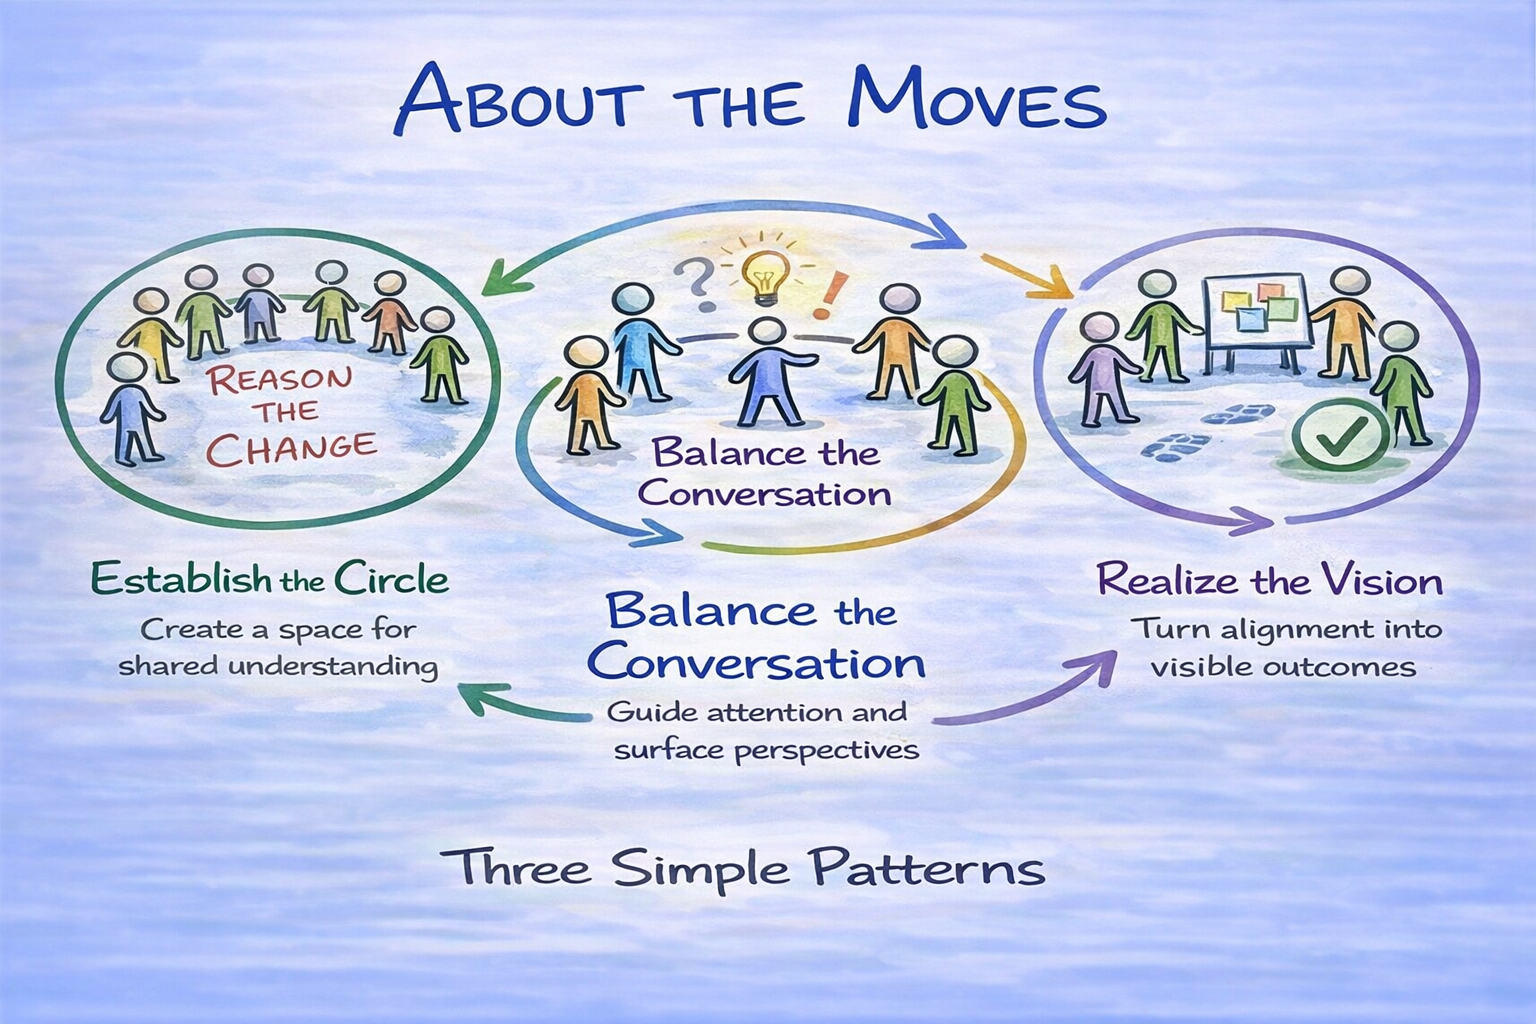
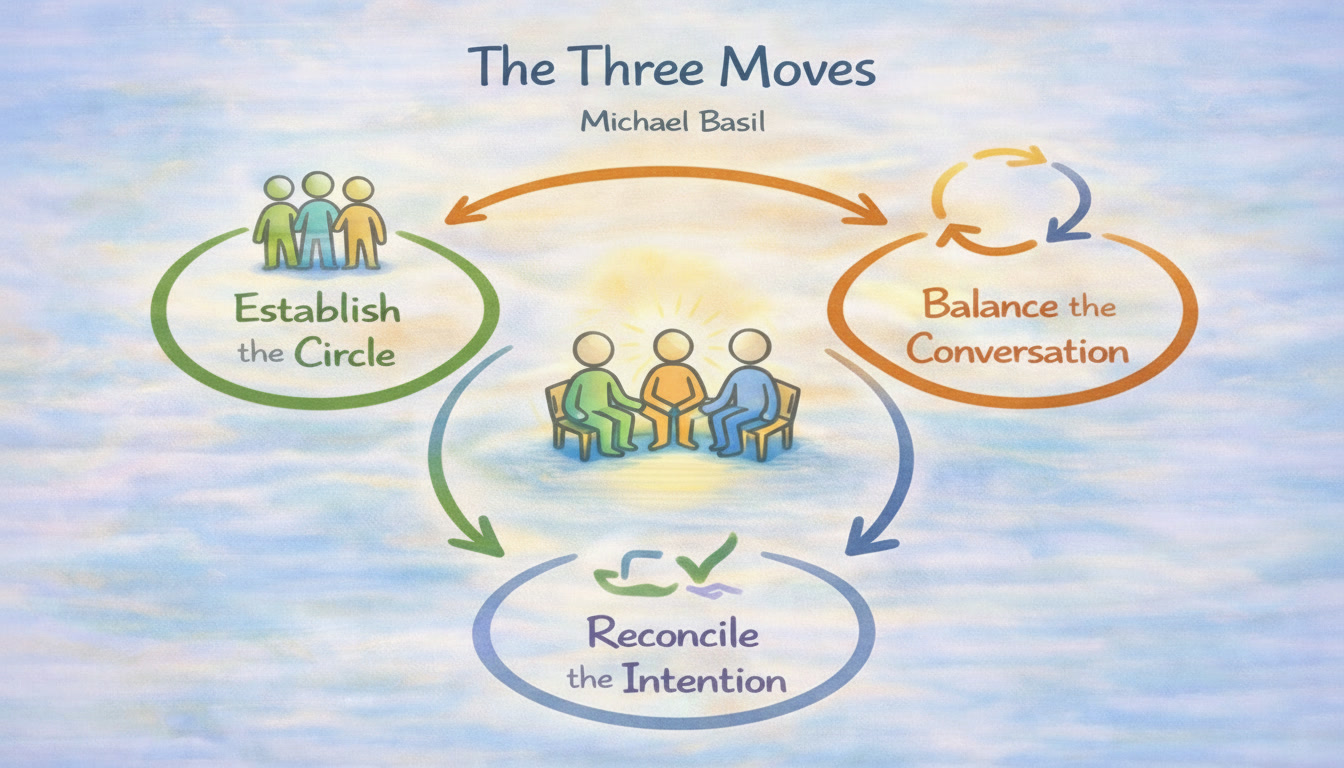
refactor: moves image and overall framing

diff --git a/balance.md b/balance.md
@@ -8,7 +8,7 @@ css_id: balance
 
 # Balance the Conversation
 
-*A Pattern for Conscious Change Leadership by* **Michael Basil**
+*A Pattern for Adaptive Change Leadership by* **Michael Basil**
 
 ![Balance the Conversation](/images/balance.png)
 
@@ -18,7 +18,7 @@ css_id: balance
 
 Guide attention, surface perspectives, and manage tension so insight flows. Without this balance, drivers clash, organizers silo, collaborators disengage, and ideas fail to translate into action. By intentionally observing and shifting energy, a facilitator helps the group integrate perspectives, make decisions, clear outdated priorities, and move toward aligned action.
 
-This pattern is **both independent and foundational**, nourishing the effectiveness of the Circle itself. It enables subsequent moves like *Reconcile the Vision* and creates the conditions to **establish, evolve, or adjourn a Circle**, forming a more collaborative and responsive conversation system.
+This pattern is **both independent and foundational**, nourishing the effectiveness of the Circle itself. It enables subsequent moves like *Reconcile the Intention* and creates the conditions to **establish, evolve, or adjourn a Circle**, forming a more collaborative and responsive conversation system.
 
 ## Story
 
@@ -95,7 +95,7 @@ When conversation balancing works:
 
 Over time, in a change-saturated environment where initiatives are fragmented and attention is scattered, balanced conversations enable critical outcomes to emerge. Strategic initiatives begin to move forward, connect, and deliver tangible results. Progress becomes visible, and alignment strengthens across the organization.
 
-A Circle session, and any conversation, becomes a **space to practice and reinforce this skill**, supporting its establishment, evolution, and adjournment. It also strengthens subsequent moves like Reconcile the Vision.
+A Circle session, and any conversation, becomes a **space to practice and reinforce this skill**, supporting its establishment, evolution, and adjournment. It also strengthens subsequent moves like *Reconcile the Intention*.
 
 ## Key Characteristics
 
@@ -141,7 +141,7 @@ A Circle session, and any conversation, becomes a **space to practice and reinfo
 ## Related Patterns
 
 - [Establish the Circle](/establish/){: data-ga-event="learn_more" data-ga-label="balance_to_establish"} – provides the foundation and conditioning for creating, evolving, or adjourning a Circle. This pattern and Establish the Circle are interdependent—each strengthens the other.  
-- [Reconcile the Vision](/reconcile/){: data-ga-event="learn_more" data-ga-label="moves_to_reconcile"} – relies on balanced conversations to synthesize perspectives and align action.  
+- [Reconcile the Intention](/reconcile/){: data-ga-event="learn_more" data-ga-label="moves_to_reconcile"} – relies on balanced conversations to synthesize perspectives and align action.  
 
 ## Explore in Your Context
 

diff --git a/moves.md b/moves.md
@@ -1,39 +1,43 @@
 ---
 layout: default
-title: About the Moves
-description: Three simple patterns for creating clarity, maintaining alignment, and turning insight into action.
+title: The Three Moves
+description: Simple patterns to create clarity, maintain alignment, and turn insight into action.
 permalink: /moves/
 css_id: moves
 ---
 
-# About the Moves
+# The Three Moves
+
+*A Simple System for Navigating Continuous Change* **Michael Basil**
 
 ![About the Moves](/images/moves.png)
 
-These patterns help groups restore balance and move forward when change feels overwhelming, confusing, or scattered. Each move can be used independently, but together they form a simple system for creating clarity, maintaining alignment, and reconciling understanding into action.
+Change feels messy. Conversations fragment. Priorities scatter.  
 
-*Start where you are—the right move depends on what the group needs most right now.*
+These three moves help a group pause, see clearly, and act together. Each can stand alone. Together, they form a system for clarity, alignment, and intentional progress.  
+
+*Start where you are. Explore the move that fits your situation right now.*
 
 ## Establish the Circle
 
-**When focus and alignment are unclear**  
+**When focus and alignment are missing**  
 
-Create a small, recurring gathering that becomes a relational center. It provides a space where people can make sense of the change together, connect across perspectives, and begin building shared understanding.
+Create a small, recurring space where people connect, reason together, and begin building shared understanding.  
 
 👉 [Learn more](/establish/){: data-ga-event="learn_more" data-ga-label="moves_to_establish"}
 
 ## Balance the Conversation
 
-**When conversations drift, fragment, or stall**  
+**When energy drifts or discussion stalls**  
 
-Guide attention, surface perspectives, and manage tension so insight flows. The group stays engaged, integrates viewpoints, and maintains the conditions needed for alignment to emerge.
+Guide attention, surface perspectives, and manage tension so insight flows. Keep the group engaged, aligned, and moving forward.  
 
 👉 [Learn more](/balance/){: data-ga-event="learn_more" data-ga-label="moves_to_balance"}
 
-## Reconcile the Vision
+## Reconcile the Intention
 
-**When understanding is growing but action remains unclear**  
+**When clarity is forming but action is unclear**  
 
-Bring diverse perspectives together and resolve tensions around what matters most. Transform shared understanding into aligned commitments, so progress becomes visible and intentional.
+Connect perspectives, resolve tensions, and turn shared understanding into aligned commitments. Make progress visible and intentional.  
 
 👉 [Learn more](/reconcile/){: data-ga-event="learn_more" data-ga-label="moves_to_reconcile"}

diff --git a/establish.md b/establish.md
@@ -8,7 +8,7 @@ css_id: establish
 
 # Establish the Circle
 
-*A Pattern for Conscious Change Leadership by* **Michael Basil**
+*A Pattern for Adaptive Change Leadership by* **Michael Basil**
 
 ![Establish the Circle](/images/establish.png)
 

diff --git a/reconcile.md b/reconcile.md
@@ -1,11 +1,11 @@
 ---
 layout: default
-title: Reconcile the Vision
+title: Reconcile the Intention
 description: Coming soon.
 permalink: /reconcile/
 css_id: reconcile
 ---
 
-# Reconcile the Vision
+# Reconcile the Intention
 
 Coming soon.
